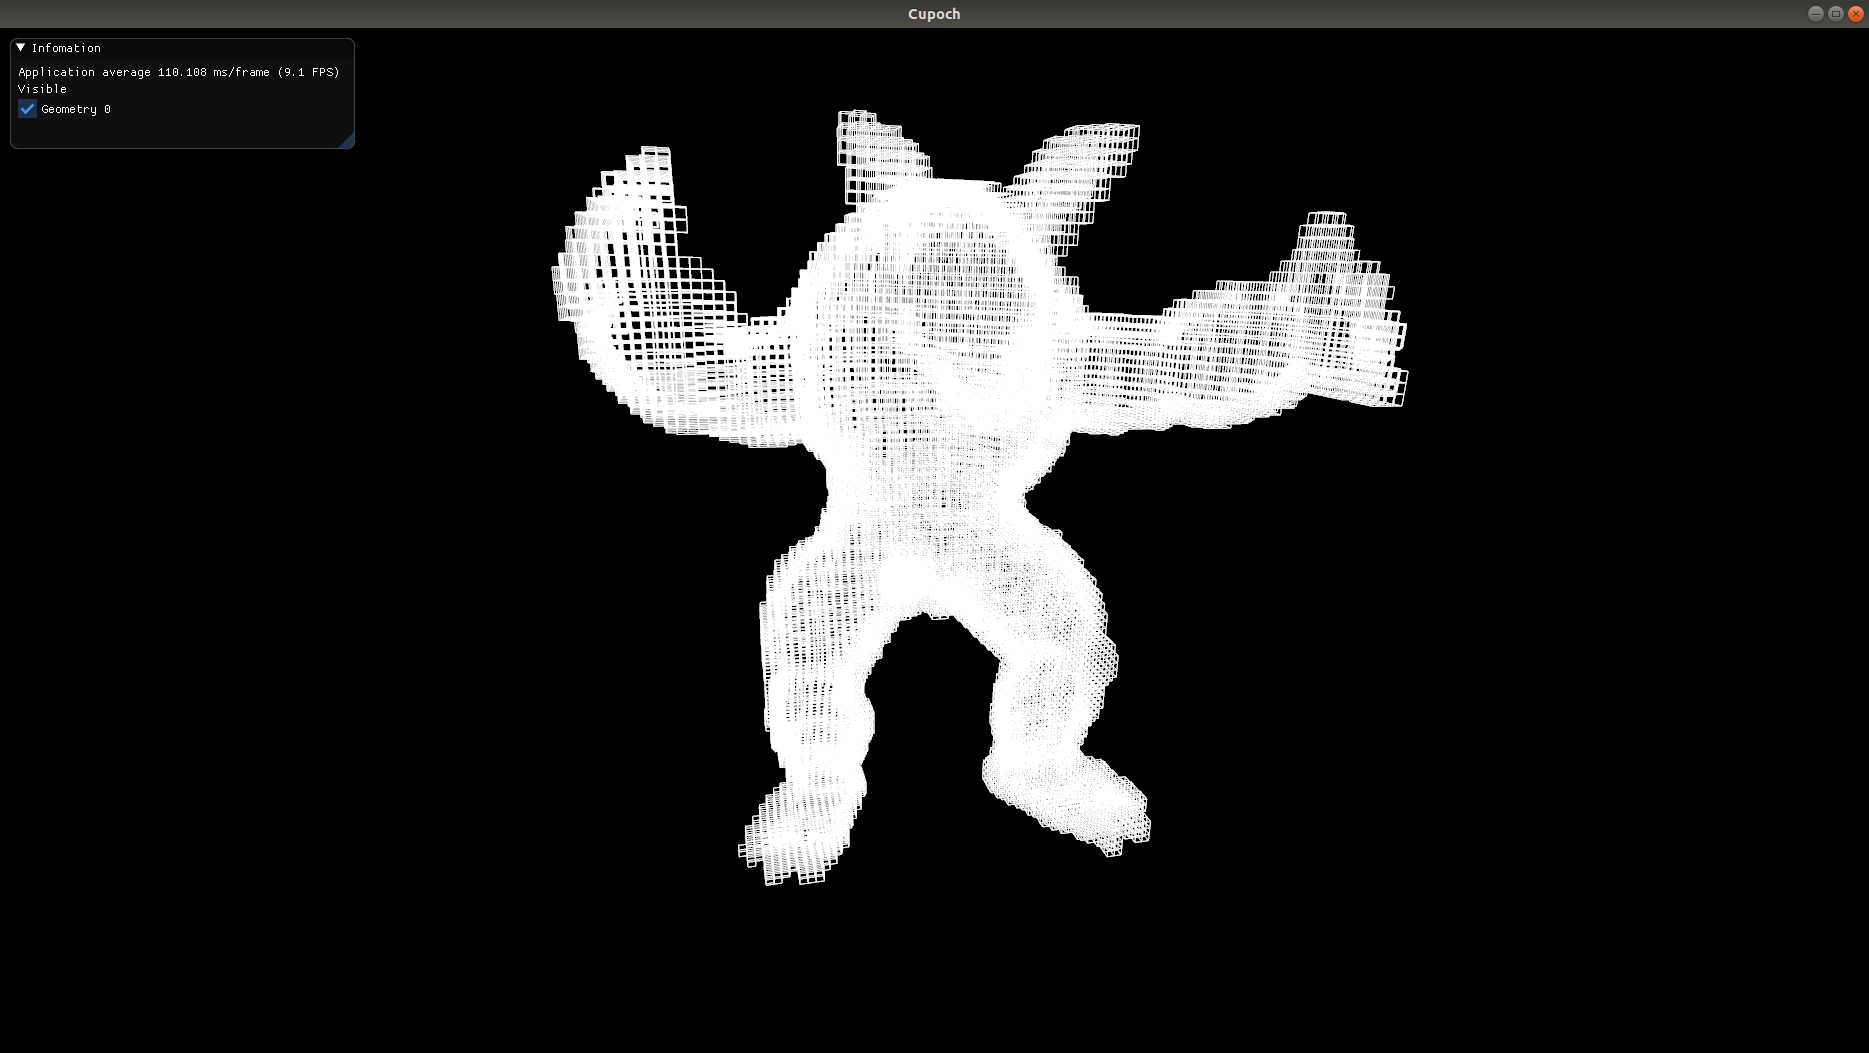
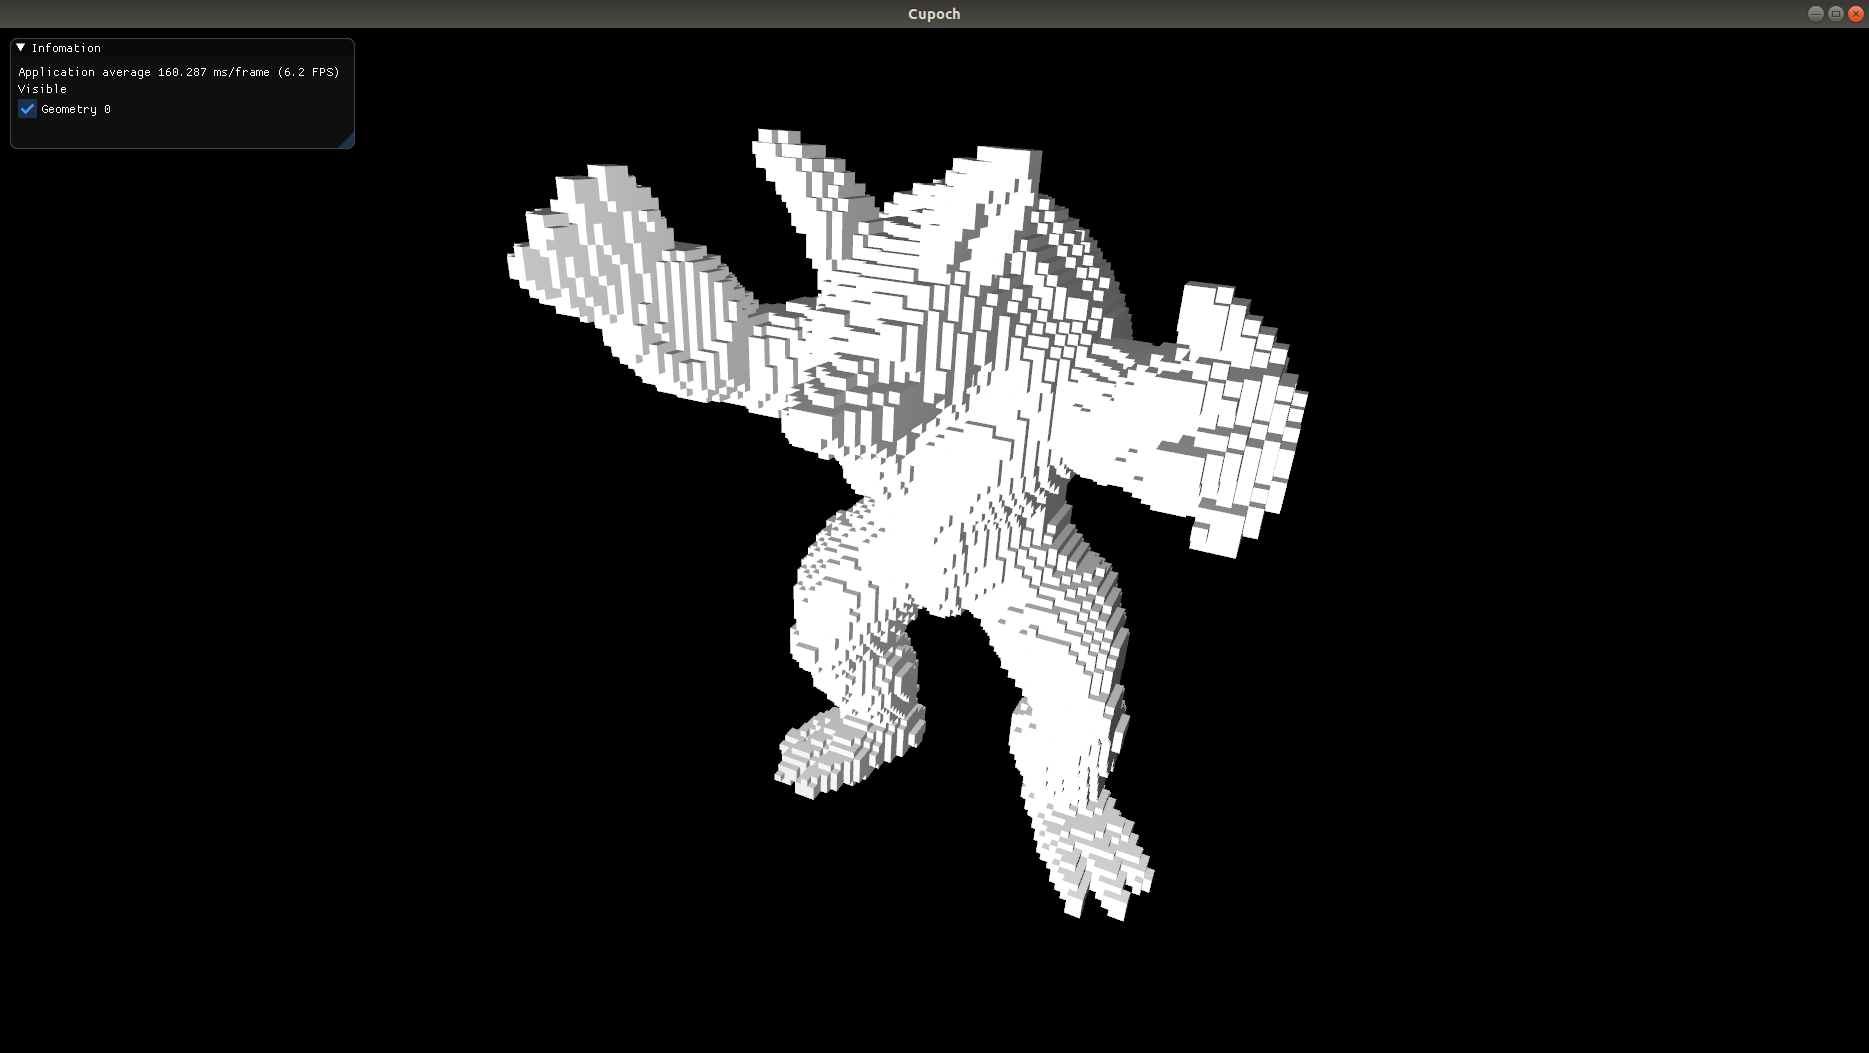
voxel phong shader

Changed region(s): [[0.2483, 0.0912, 0.7758, 0.8813]]

diff --git a/src/cupoch/visualization/shader/phong_shader.h b/src/cupoch/visualization/shader/phong_shader.h
@@ -102,6 +102,23 @@ protected:
     size_t GetDataSize(const geometry::Geometry &geometry) const final;
 };
 
+class PhongShaderForVoxelGridFace : public PhongShader {
+public:
+    PhongShaderForVoxelGridFace() : PhongShader("PhongShaderForVoxelGridFace") {}
+
+protected:
+    bool PrepareRendering(const geometry::Geometry &geometry,
+                          const RenderOption &option,
+                          const ViewControl &view) final;
+    bool PrepareBinding(const geometry::Geometry &geometry,
+                        const RenderOption &option,
+                        const ViewControl &view,
+                        thrust::device_ptr<Eigen::Vector3f> &points,
+                        thrust::device_ptr<Eigen::Vector3f> &normals,
+                        thrust::device_ptr<Eigen::Vector3f> &colors) final;
+    size_t GetDataSize(const geometry::Geometry &geometry) const final;
+};
+
 }  // namespace glsl
 
 }  // namespace visualization

diff --git a/src/cupoch/visualization/shader/simple_shader.h b/src/cupoch/visualization/shader/simple_shader.h
@@ -113,23 +113,6 @@ protected:
     size_t GetDataSize(const geometry::Geometry &geometry) const final;
 };
 
-class SimpleShaderForVoxelGridFace : public SimpleShader {
-public:
-    SimpleShaderForVoxelGridFace()
-        : SimpleShader("SimpleShaderForVoxelGridFace") {}
-
-protected:
-    bool PrepareRendering(const geometry::Geometry &geometry,
-                          const RenderOption &option,
-                          const ViewControl &view) final;
-    bool PrepareBinding(const geometry::Geometry &geometry,
-                        const RenderOption &option,
-                        const ViewControl &view,
-                        thrust::device_ptr<Eigen::Vector3f> &points,
-                        thrust::device_ptr<Eigen::Vector3f> &colors) final;
-    size_t GetDataSize(const geometry::Geometry &geometry) const final;
-};
-
 }  // namespace glsl
 
 }  // namespace visualization

diff --git a/src/cupoch/visualization/shader/geometry_renderer.cpp b/src/cupoch/visualization/shader/geometry_renderer.cpp
@@ -103,8 +103,8 @@ bool VoxelGridRenderer::Render(const RenderOption &option,
         return simple_shader_for_voxel_grid_line_.Render(*geometry_ptr_, option,
                                                          view);
     } else {
-        return simple_shader_for_voxel_grid_face_.Render(*geometry_ptr_, option,
-                                                         view);
+        return phong_shader_for_voxel_grid_face_.Render(*geometry_ptr_, option,
+                                                        view);
     }
 }
 
@@ -120,7 +120,7 @@ bool VoxelGridRenderer::AddGeometry(
 
 bool VoxelGridRenderer::UpdateGeometry() {
     simple_shader_for_voxel_grid_line_.InvalidateGeometry();
-    simple_shader_for_voxel_grid_face_.InvalidateGeometry();
+    phong_shader_for_voxel_grid_face_.InvalidateGeometry();
     return true;
 }
 

diff --git a/src/python/cupoch_pybind/collision/collision.cpp b/src/python/cupoch_pybind/collision/collision.cpp
@@ -1,9 +1,17 @@
 #include "cupoch_pybind/collision/collision.h"
 #include "cupoch_pybind/docstring.h"
 
+#include "cupoch/collision/collision.h"
+#include "cupoch/geometry/voxelgrid.h"
+
 using namespace cupoch;
+
+void pybind_collision_methods(py::module &m) {
+    m.def("compute_intersection", py::overload_cast<const geometry::VoxelGrid&, const geometry::VoxelGrid&>(&collision::ComputeIntersection));
+}
 
 void pybind_collision(py::module &m) {
     py::module m_submodule = m.def_submodule("collision");
+    pybind_collision_methods(m_submodule);
     pybind_primitives(m_submodule);
 }

diff --git a/src/cupoch/visualization/shader/geometry_renderer.h b/src/cupoch/visualization/shader/geometry_renderer.h
@@ -101,7 +101,7 @@ public:
 
 protected:
     SimpleShaderForVoxelGridLine simple_shader_for_voxel_grid_line_;
-    SimpleShaderForVoxelGridFace simple_shader_for_voxel_grid_face_;
+    PhongShaderForVoxelGridFace phong_shader_for_voxel_grid_face_;
 };
 
 class CoordinateFrameRenderer : public GeometryRenderer {
